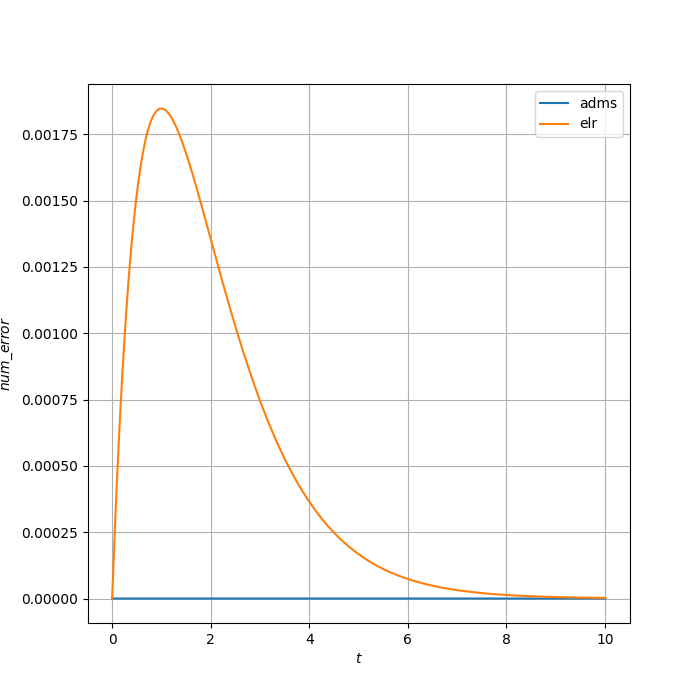
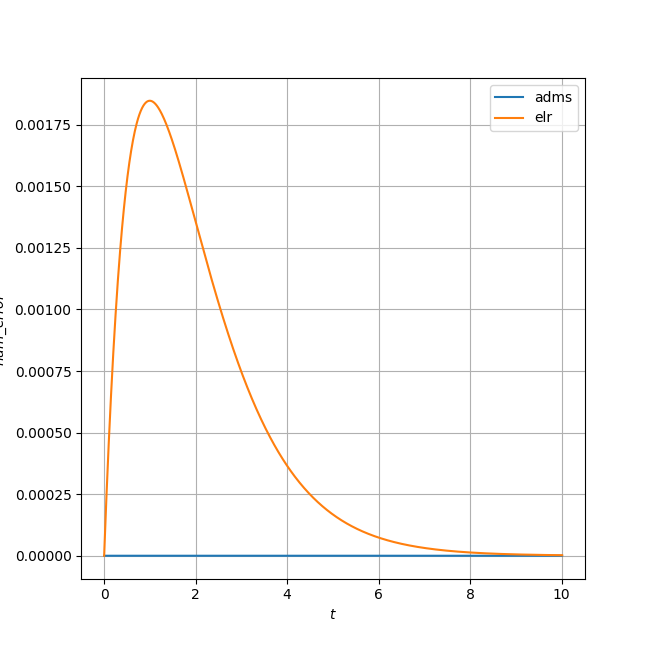
first commit

diff --git a/num_error.py b/num_error.py
@@ -36,7 +36,7 @@ if (__name__ == '__main__'):
     start = 0.0
     end = 10
     l_slice = 100.2*(end - start)
-    plt.figure(figsize=(7,7))
+    plt.figure(figsize=(6.5,6.5))
     
     #Euler
     h = 0.01
@@ -71,7 +71,7 @@ def cal_num_error(Adams, Euler, Ext):
     return [num_error_adms, num_error_elr, num_error_adms_elr]
 
 data = cal_num_error(y_adms, y_elr, ex_y)
-plt.figure(figsize=(7,7))
+plt.figure(figsize=(6.5,6.5))
 plot2d(t_elr, data[0], "$t$", "$num\_error$", "adms")
 plot2d(t_elr, data[1], "$t$", "$num\_error$", "elr")
 plt.grid()
